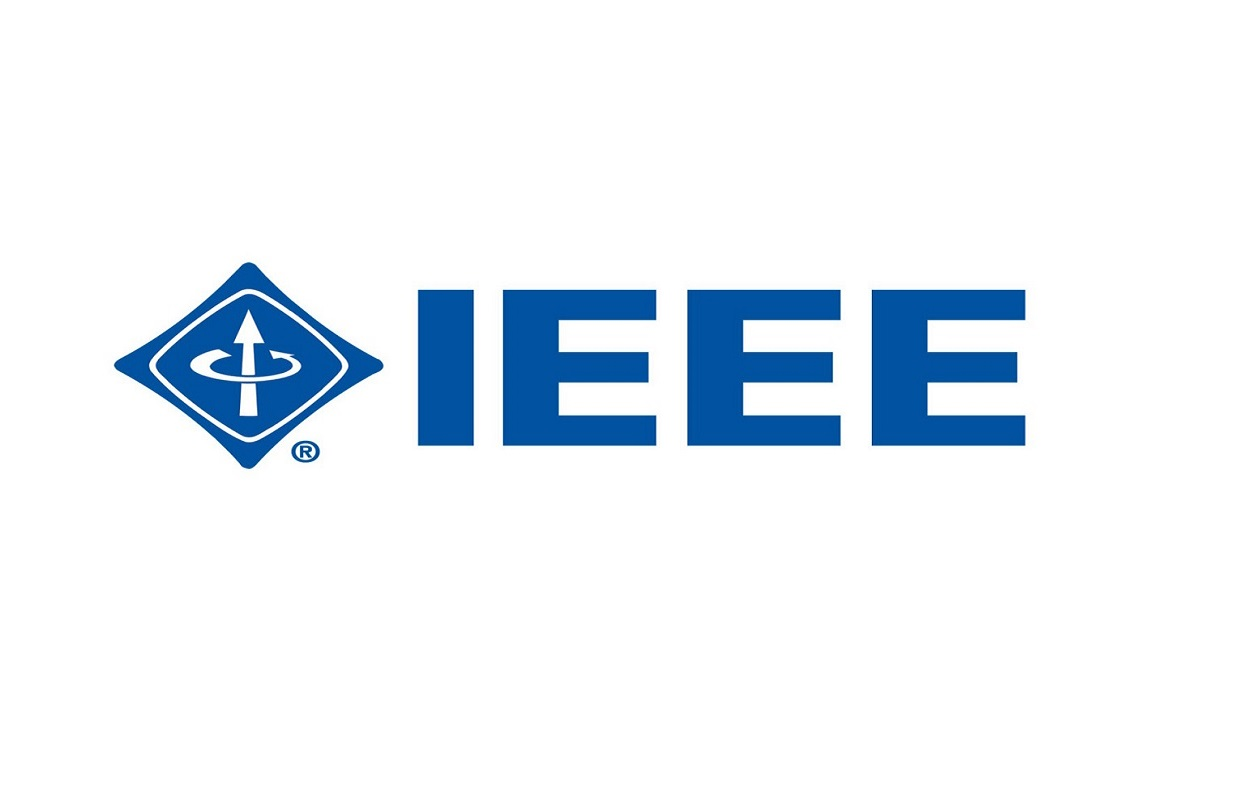
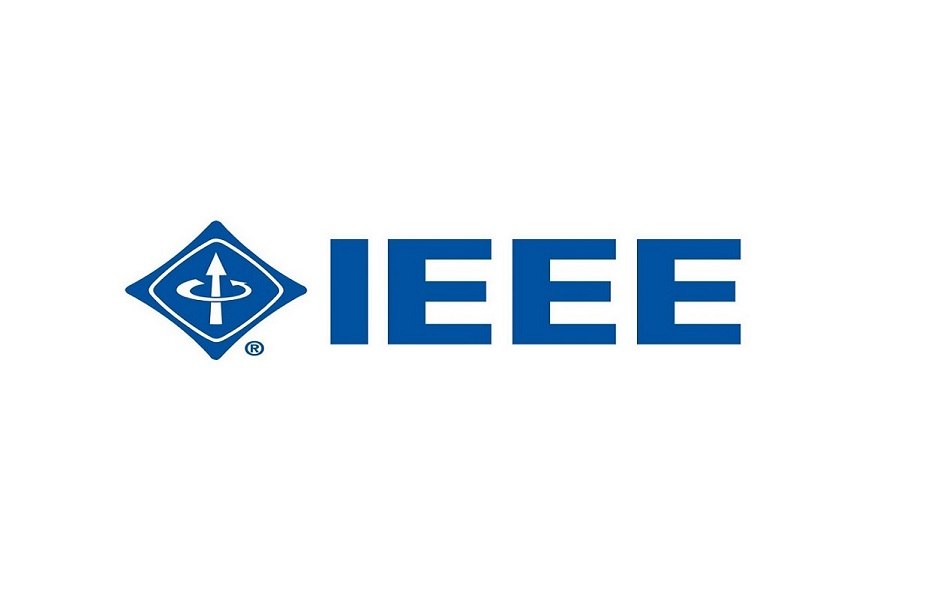
Major design changes
Logo inclusion
Design adaptation to logo

Changed region(s): [[0.0907, 0.33, 0.8467, 0.6]]

diff --git a/index.html b/index.html
@@ -9,21 +9,21 @@
     <title>Semana de Informática 2016</title>
 
     <link href='http://fonts.googleapis.com/css?family=Roboto:400,300,700' rel='stylesheet' type='text/css'>
-    <link href="//maxcdn.bootstrapcdn.com/font-awesome/4.2.0/css/font-awesome.min.css" rel="stylesheet">
     <link rel="stylesheet" href="https://cdnjs.cloudflare.com/ajax/libs/font-awesome/4.6.3/css/font-awesome.min.css">
     <link rel="stylesheet" href="assets/bootstrap/css/bootstrap.min.css" />
+    <link rel="stylesheet" href="https://fonts.googleapis.com/css?family=Raleway">
+    <link rel="stylesheet" href="https://cdnjs.cloudflare.com/ajax/libs/font-awesome/4.6.3/css/font-awesome.min.css">
+    <link rel="stylesheet" href="http://www.w3schools.com/lib/w3.css">
     <link rel="stylesheet" href="assets/animate/animate.css" />
     <link rel="stylesheet" href="assets/animate/set.css" />
     <link rel="stylesheet" href="assets/gallery/blueimp-gallery.min.css">
-    <link rel="shortcut icon" href="images/favicon.ico" type="image/x-icon">
-    <link rel="icon" href="images/favicon.ico" type="image/x-icon">
     <link rel="stylesheet" href="assets/style.css">
 
 </head>
 
 <body>
 <div class="topbar animated fadeInLeftBig"></div>
-
+<!--
 <div class="navbar-wrapper">
 
       <div class="container">
@@ -46,7 +46,7 @@
 
             <div class="navbar-collapse  collapse">
               <ul class="nav navbar-nav navbar-right scroll">
-                 <li class="active"><a href="#schedule">Cartaz</a></li>
+                 <li class="active"><a href="#schedule">Eventos</a></li>
                  <li ><a href="#about">Sobre</a></li>
                  <li ><a href="#contact">Contactos</a></li>
               </ul>
@@ -56,69 +56,40 @@
         </div>
 
       </div>
+</div>-->
+
+<div id="contact" class="spacer">
+   <img src="images/logo.jpg" alt="logo" id="logo" align="middle">
 </div>
 
-<div id="schedule"  class=" clearfix grid"> 
-    
-    <figure class="effect-oscar  wowload fadeIn">
-        <img src="images/portfolio/mindera.jpg" alt="mindera"/>
-        <figcaption>
-            <p>Visita a Mindera!<br>
-              31/10/2016<br>
-            <a href="images/portfolio/mindera.jpg" data-gallery data-toggle="modal" data-target="#minderaModal">Saber mais</a></p>            
-        </figcaption>
-    </figure>
+<div id="schedule" class="w3-main">
 
-     <figure class="effect-oscar  wowload fadeInUp">
-        <img src="images/portfolio/blip.jpg" alt="blip"/>
-        <figcaption>
-            <p>Visita a Blip!<br>
-              04/11/2016<br>
-            <a href="images/portfolio/blip.jpg" data-gallery data-toggle="modal" data-target="#blipModal">Saber mais</a></p>            
-        </figcaption>
-    </figure>
+  <div class="w3-row-padding">
+    <div class="w3-third w3-container w3-margin-bottom">
+      <img src="images/portfolio/mindera.jpg" alt="mindera" class="w3-hover-opacity" data-gallery data-toggle="modal" data-target="#minderaModal">
+    </div>
+    <div class="w3-third w3-container w3-margin-bottom">
+      <img src="images/portfolio/bit.jpg" alt="bit" class="w3-hover-opacity" data-gallery data-toggle="modal" data-target="#minderaModal">
+    </div>
+    <div class="w3-third w3-container w3-margin-bottom">
+      <img src="images/portfolio/niaefeup.jpg" alt="niaefeup" class="w3-hover-opacity" data-gallery data-toggle="modal" data-target="#minderaModal">
+    </div>
+  </div>
+  
+  <div class="w3-row-padding">
+<div class="w3-third w3-container w3-margin-bottom">
+      <img src="images/portfolio/1.jpg" alt="1" class="w3-hover-opacity" data-gallery data-toggle="modal" data-target="#minderaModal">
+    </div>
+   <div class="w3-third w3-container w3-margin-bottom">
+      <img src="images/portfolio/ieee.jpg" alt="ieee" class="w3-hover-opacity" data-gallery data-toggle="modal" data-target="#minderaModal">
+    </div>
+    <div class="w3-third w3-container w3-margin-bottom">
+      <img src="images/portfolio/1.jpg" alt="1" class="w3-hover-opacity" data-gallery data-toggle="modal" data-target="#minderaModal">
+    </div>
+  </div>
+  </div>
 
-     <figure class="effect-oscar  wowload fadeInUp">
-        <img src="images/portfolio/niaefeup.jpg" alt="niaefeup"/>
-        <figcaption>
-            <p>Workshop de Git do NIAEFEUP<br>
-              31/10/2016<br>
-            <a href="images/portfolio/1.jpg" data-gallery data-toggle="modal" data-target="#niaefeupModal">Saber mais</a></p>            
-        </figcaption>
-    </figure>
-
-     <figure class="effect-oscar  wowload fadeInUp">
-        <img src="images/portfolio/1.jpg" alt="img01"/>
-        <figcaption> 
-            <p>Palestra - Estagiar durante o curso<br>
-            04/11/2016<br> 
-            <a href="images/portfolio/1.jpg" data-gallery data-toggle="modal" data-target="#palestra1Modal">Saber mais</a></p>        
-        </figcaption>
-    </figure>
-
-     <figure class="effect-oscar  wowload fadeInUp">
-        <img src="images/portfolio/ieee.jpg" alt="ieee"/>
-        <figcaption>
-            <p>Workshop de Arduino do IEEE<br>
-              03/11/2016<br>
-            <a href="images/portfolio/ieee.jpg" data-gallery data-toggle="modal" data-target="#ieeeModal">Saber mais</a></p>            
-        </figcaption>
-    </figure>
-     
-     <figure class="effect-oscar  wowload fadeInUp">
-        <img src="images/portfolio/1.jpg" alt="img01"/>
-        <figcaption>
-            <p>Palestra - Saídas do MIEIC<br>
-            04/11/2016<br>  
-            <a href="images/portfolio/1.jpg" data-gallery data-toggle="modal" data-target="#palestra2Modal">Saber mais</a></p>           
-        </figcaption>
-    </figure>
-
-</div>
-
-
-
-<div id="about" class="container spacer">
+<div id="about" class="spacer">
 	<h2 class="text-center  wowload fadeInUp">Sobre a Semana de Informática</h2>
   
   <h4 class="text-center">
@@ -135,7 +106,7 @@
 <div id="contact" class="spacer">
 
 <div class="container contactform center">
-<h2 class="text-center  wowload fadeInUp">Entra em contacto connosco!</h2>
+<h2 class="text-center wowload fadeInUp">Entra em contacto connosco!</h2>
 
 <h1 class="text-center"><a href="https://www.facebook.com/semanainformaticaFEUP"><span class="fa fa-facebook-square"></span></a></h1>
 <h4 class="text-center"><a href="https://www.facebook.com/semanainformaticaFEUP">Facebook/Semana de Informática</a></h4>
@@ -162,12 +133,12 @@
   </div>
 </div>
 
-<div id="blipModal" class="modal fade" role="dialog">
+<div id="bitModal" class="modal fade" role="dialog">
   <div class="modal-dialog">
 
     <div class="modal-content">
       <div class="modal-header">
-        <h4 class="modal-title text-center">Visita à empresa Blip 
+        <h4 class="modal-title text-center">Visita à empresa bit 
         <button type="button" class="close" data-dismiss="modal">&times;</button></h4>
       </div>
       <div class="modal-body">

diff --git a/assets/style.css b/assets/style.css
@@ -1,4 +1,8 @@
-body {	color:#666;	font:300 15px/15px Roboto,Arial,Helvetica;background-color:#fff;-webkit-font-smoothing:antialiased;}
+body {	color:#666;	font:300 15px/15px Roboto,Arial,Helvetica;background: url(../images/stardust.png) no-repeat center center fixed; 
+  -webkit-background-size: cover;
+  -moz-background-size: cover;
+  -o-background-size: cover;
+  background-size: cover;}
 
 a{color:#00a9c6; text-decoration:none;}
 a:hover{color:#666;}
@@ -64,11 +68,13 @@ p{font-size:1em;line-height: 1.7em; margin-bottom: 1.7em;}
 .carousel-indicators{bottom: 0;}
 
 /*schedule*/
-#schedule{padding-top:6em;}
-#schedule figcaption a{border:1px solid #fff;margin-top: 1em;display: inline-block;color: #fff;padding: 0 2em;}
-#schedule figcaption a:hover{text-decoration: none;padding: 0 3em;}
-#schedule img{filter:brightness(100%);}
-#schedule p{font-size: 125%;}
+#schedule{padding-top:12%; padding-bottom:5%; padding-left: 3%;background: url(../images/stardust.png) no-repeat center center fixed; 
+  -webkit-background-size: cover;
+  -moz-background-size: cover;
+  -o-background-size: cover;
+  background-size: cover;}
+#schedule img{filter:brightness(100%); height: 90%; width: 90%; border:3px solid #a3c839; border-radius: 500px;}
+#schedule p{font:5em Roboto,Arial,Helvetica;font-size: 120%;}
 /*schedule*/
 
 /*team*/
@@ -85,7 +91,7 @@ p{font-size:1em;line-height: 1.7em; margin-bottom: 1.7em;}
 /*about us*/
 
 
-#contact{background-color: #f2f2f2;}
+#about{background-color: #f2f2f2;}
 .contactform textarea,.contactform input{width: 100%;padding:1em;border:1px solid #ccc;margin-bottom: 1em;border-radius: 0;outline: none;}
 
 
@@ -152,5 +158,12 @@ p{font-size:1em;line-height: 1.7em; margin-bottom: 1.7em;}
 	.footer{margin-top: 2em;padding-bottom: 2em;}
 }
 
-#edicao_anterior {margin: auto; width: 20%; border-radius: 50px;}
+#edicao_anterior {margin: auto; width: 20%; border-radius: 50px; background-color: grey;}
+#edicao_anterior:hover {margin: auto; width: 20%; border-radius: 50px; background-color: #a3c839;}
 [name="inscricao"] {margin: auto; width: 40%; border-radius: 50px;}
+#contact h2{color: white;}
+#contact h1 a {color: white;}
+#contact h1 a:hover {color: #a3c839;}
+#contact h4 a {color: white;}
+#contact h4 a:hover {color: #a3c839;}
+#logo {display: block;margin: auto; border:3px solid #a3c839;margin-top: 8%;}
